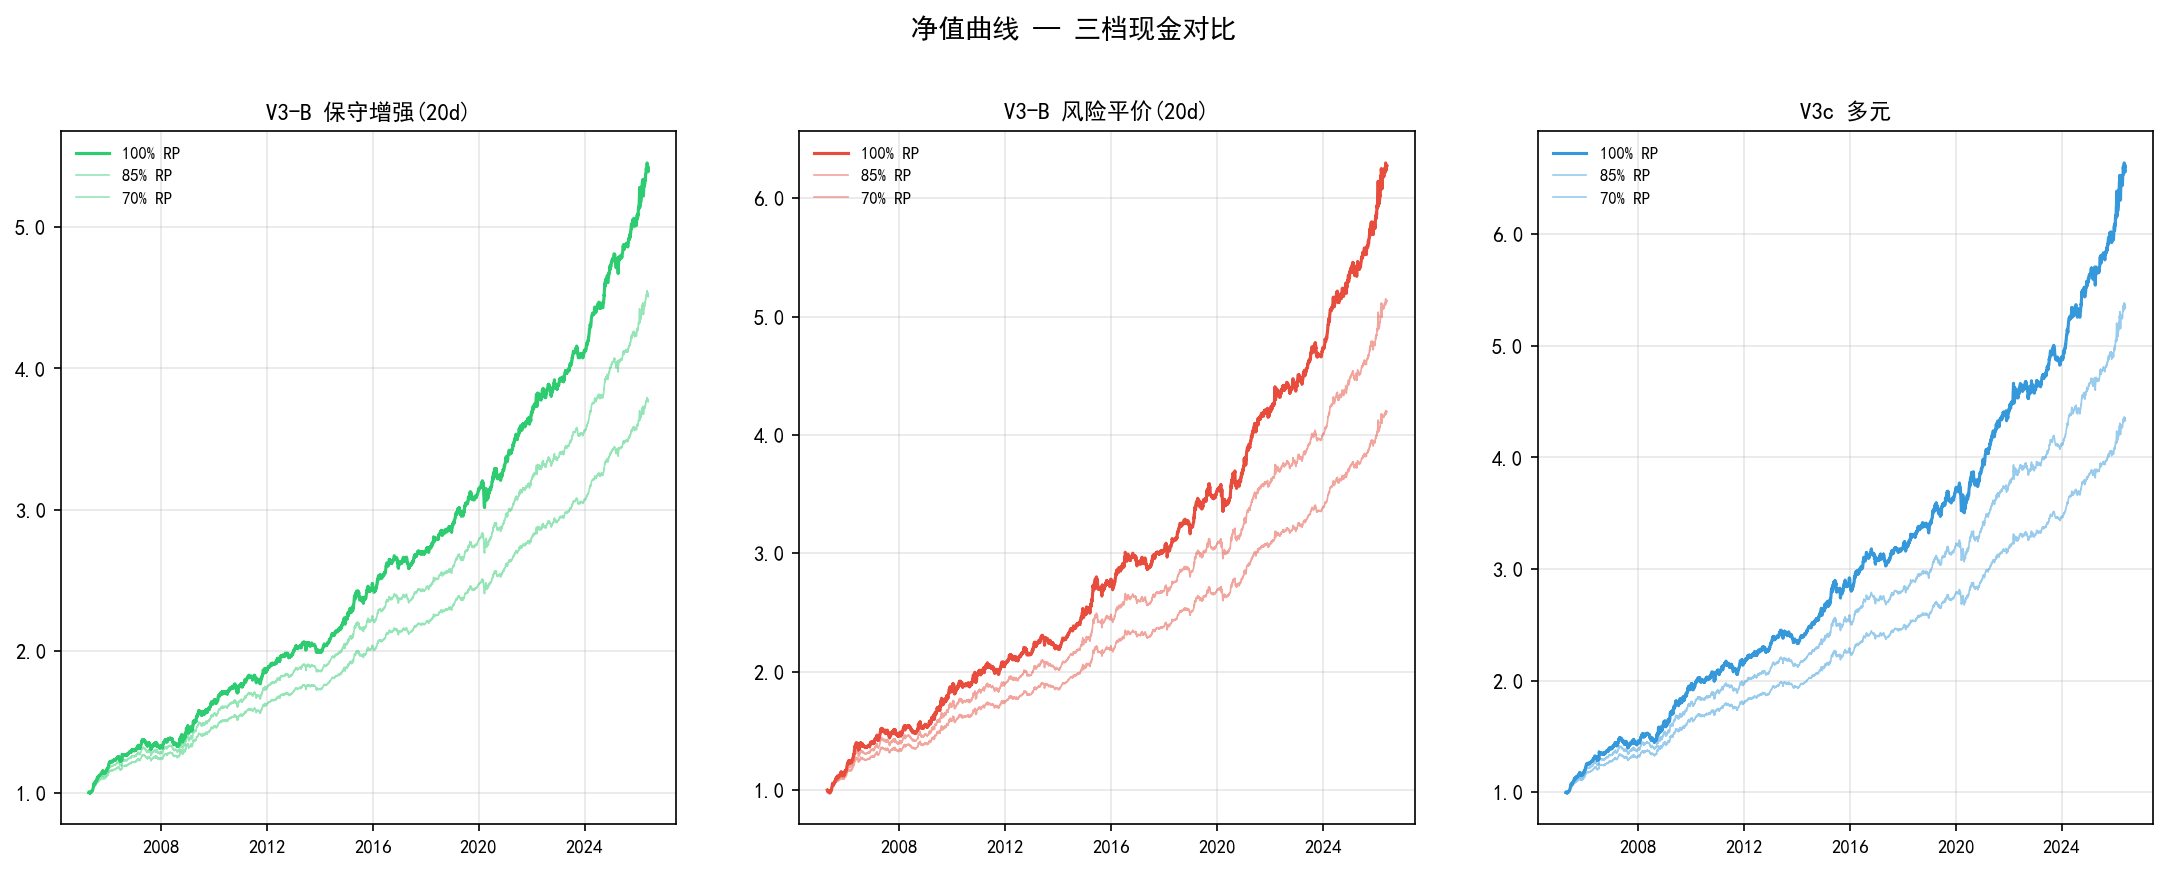
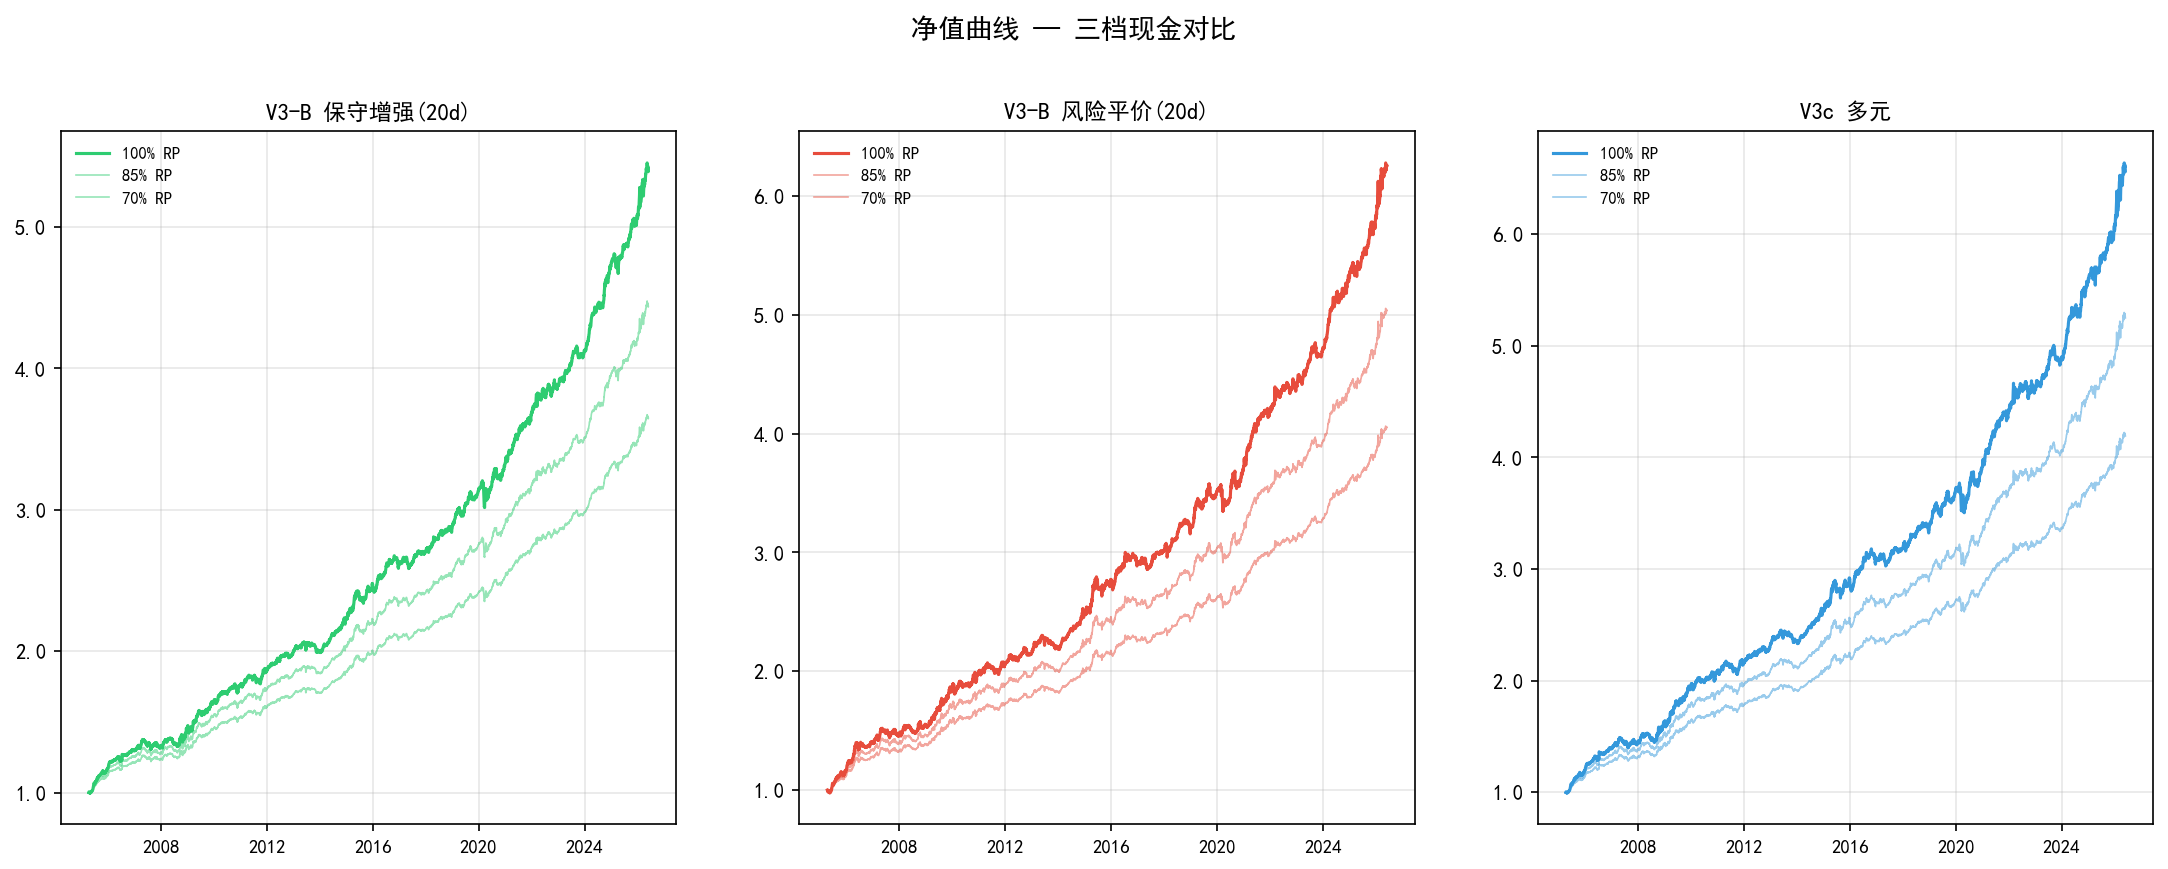
fix: 无风险利率统一为10年期国债收益率 1.7%（2026.07 实际值）

diff --git a/docs/index.html b/docs/index.html
@@ -1608,9 +1608,11 @@ function downloadHTML() {
 
 
 
+
+
 <!-- ALLWEATHER_SYNC_START --><script>
 (function(){
-const D = {"V3-B 保守增强(20d)": {"100% RP": {"cum_return": 4.397204, "cagr": 0.08118, "vol": 0.039523, "mdd": -0.059215, "sharpe": 1.497334, "calmar": 1.370932, "final_nv": 5.3972}, "85% RP": {"cum_return": 3.51064, "cagr": 0.072235, "vol": 0.033595, "mdd": -0.050256, "sharpe": 1.495309, "calmar": 1.43734, "final_nv": 4.5106}, "70% RP": {"cum_return": 2.766826, "cagr": 0.063326, "vol": 0.027666, "mdd": -0.041227, "sharpe": 1.49373, "calmar": 1.536023, "final_nv": 3.7668}, "动态": {"cum_return": 3.797412, "cagr": 0.075299, "vol": 0.035519, "mdd": -0.043639, "sharpe": 1.500597, "calmar": 1.725512, "final_nv": 4.7974}}, "V3-B 风险平价(20d)": {"100% RP": {"cum_return": 5.271513, "cagr": 0.088721, "vol": 0.051765, "mdd": -0.064569, "sharpe": 1.28893, "calmar": 1.374064, "final_nv": 6.2715}, "85% RP": {"cum_return": 4.132546, "cagr": 0.078666, "vol": 0.044, "mdd": -0.053587, "sharpe": 1.287858, "calmar": 1.468019, "final_nv": 5.1325}, "70% RP": {"cum_return": 3.194925, "cagr": 0.068639, "vol": 0.036235, "mdd": -0.043656, "sharpe": 1.287101, "calmar": 1.572269, "final_nv": 4.1949}, "动态": {"cum_return": 4.305664, "cagr": 0.080324, "vol": 0.045944, "mdd": -0.050839, "sharpe": 1.269467, "calmar": 1.579965, "final_nv": 5.3057}}, "V3c 多元": {"100% RP": {"cum_return": 5.564913, "cagr": 0.091028, "vol": 0.05017, "mdd": -0.070643, "sharpe": 1.375903, "calmar": 1.288575, "final_nv": 6.5649}, "85% RP": {"cum_return": 4.334717, "cagr": 0.080597, "vol": 0.042644, "mdd": -0.059716, "sharpe": 1.374097, "calmar": 1.349666, "final_nv": 5.3347}, "70% RP": {"cum_return": 3.329724, "cagr": 0.070205, "vol": 0.035119, "mdd": -0.048698, "sharpe": 1.372622, "calmar": 1.441621, "final_nv": 4.3297}}, "_yearly": {"V3-B 保守增强(20d)": {"2005": 0.17198, "2006": 0.11129, "2007": 0.021756, "2008": 0.094139, "2009": 0.130856, "2010": 0.070649, "2011": 0.057314, "2012": 0.072082, "2013": -0.000239, "2014": 0.117815, "2015": 0.105037, "2016": 0.063493, "2017": 0.029769, "2018": 0.061558, "2019": 0.09356, "2020": 0.061233, "2021": 0.108552, "2022": 0.052604, "2023": 0.062331, "2024": 0.145453, "2025": 0.070363, "2026": 0.06662}, "V3-B 风险平价(20d)": {"2005": 0.174176, "2006": 0.20124, "2007": 0.043678, "2008": 0.049527, "2009": 0.210274, "2010": 0.072145, "2011": 0.029734, "2012": 0.046866, "2013": 0.021284, "2014": 0.133561, "2015": 0.10686, "2016": 0.055227, "2017": 0.034018, "2018": 0.061837, "2019": 0.097949, "2020": 0.06082, "2021": 0.126659, "2022": 0.048929, "2023": 0.071192, "2024": 0.127467, "2025": 0.09204, "2026": 0.076733}, "V3c 多元": {"2005": 0.197352, "2006": 0.168026, "2007": 0.037821, "2008": 0.115286, "2009": 0.20631, "2010": 0.06984, "2011": 0.034292, "2012": 0.075425, "2013": 0.014391, "2014": 0.120544, "2015": 0.100197, "2016": 0.063526, "2017": 0.029932, "2018": 0.056357, "2019": 0.100803, "2020": 0.058533, "2021": 0.128672, "2022": 0.045915, "2023": 0.058139, "2024": 0.137745, "2025": 0.083423, "2026": 0.0882}}, "_events": {"V3-B 保守增强(20d)": {"2008 GFC": 0.074448, "2015 股灾": -0.03284, "2016 熔断": -0.004556, "2017 债熊": 0.028782, "2018 大熊市": 0.046516, "2019 春季反弹": 0.035604, "2020 疫情": -0.057406, "2020-Q4 内需复苏": 0.011326, "2021-2 白马回撤": 0.007111, "2022 股债双杀": 0.050369, "2022 理财赎回": 0.004762, "2024 雪球危机": 0.026421, "2024-08 长债": 0.019785, "2024-924 反弹": 0.025457, "2025-Q1 长债": 0.006214, "2025-9 关税": 0.028615}, "V3-B 风险平价(20d)": {"2008 GFC": 0.040527, "2015 股灾": -0.047662, "2016 熔断": -0.008286, "2017 债熊": 0.030848, "2018 大熊市": 0.063048, "2019 春季反弹": 0.069999, "2020 疫情": -0.061508, "2020-Q4 内需复苏": 0.011148, "2021-2 白马回撤": 0.016257, "2022 股债双杀": 0.05402, "2022 理财赎回": 0.003213, "2024 雪球危机": 0.028962, "2024-08 长债": 0.001315, "2024-924 反弹": -0.007064, "2025-Q1 长债": 0.009721, "2025-9 关税": 0.034165}, "V3c 多元": {"2008 GFC": 0.117369, "2015 股灾": -0.04878, "2016 熔断": -0.011217, "2017 债熊": 0.028125, "2018 大熊市": 0.049134, "2019 春季反弹": 0.052859, "2020 疫情": -0.063481, "2020-Q4 内需复苏": 0.012088, "2021-2 白马回撤": 0.011597, "2022 股债双杀": 0.046957, "2022 理财赎回": 0.010358, "2024 雪球危机": 0.029715, "2024-08 长债": 0.01508, "2024-924 反弹": 0.026811, "2025-Q1 长债": 0.018703, "2025-9 关税": 0.027364}}, "_bootstrap": {"V3-B 保守增强(20d)": {"p5": 0.113729, "p25": 0.293169, "median": 0.417602, "p75": 0.542391, "p95": 0.745455, "annual_median": 0.072287, "loss_prob": 0.007}, "V3-B 风险平价(20d)": {"p5": 0.078188, "p25": 0.303038, "median": 0.484553, "p75": 0.655294, "p95": 0.950527, "annual_median": 0.082229, "loss_prob": 0.025}, "V3c 多元": {"p5": 0.06015, "p25": 0.278667, "median": 0.438467, "p75": 0.603644, "p95": 0.876231, "annual_median": 0.075425, "loss_prob": 0.025}}, "_regime": {"V3-B 保守增强(20d)": {"股牛+债牛": {"avg": 0.029664, "n": 34}, "股牛+债熊": {"avg": 0.009865, "n": 14}, "股熊+债牛": {"avg": 0.019936, "n": 29}, "股熊+债熊": {"avg": -0.000962, "n": 8}}, "V3-B 风险平价(20d)": {"股牛+债牛": {"avg": 0.029334, "n": 34}, "股牛+债熊": {"avg": 0.019895, "n": 14}, "股熊+债牛": {"avg": 0.018615, "n": 29}, "股熊+债熊": {"avg": 0.008287, "n": 8}}, "V3c 多元": {"股牛+债牛": {"avg": 0.032543, "n": 34}, "股牛+债熊": {"avg": 0.014107, "n": 14}, "股熊+债牛": {"avg": 0.02007, "n": 29}, "股熊+债熊": {"avg": 0.004963, "n": 8}}}};
+const D = {"V3-B 保守增强(20d)": {"100% RP": {"cum_return": 4.397204, "cagr": 0.08118, "vol": 0.039523, "mdd": -0.059215, "sharpe": 1.623841, "calmar": 1.370932, "final_nv": 5.3972}, "85% RP": {"cum_return": 3.438178, "cagr": 0.071431, "vol": 0.033595, "mdd": -0.050315, "sharpe": 1.620219, "calmar": 1.419668, "final_nv": 4.4382}, "70% RP": {"cum_return": 2.646769, "cagr": 0.061733, "vol": 0.027666, "mdd": -0.041347, "sharpe": 1.616861, "calmar": 1.493025, "final_nv": 3.6468}, "动态": {"cum_return": 3.751811, "cagr": 0.074824, "vol": 0.035519, "mdd": -0.043639, "sharpe": 1.627979, "calmar": 1.714618, "final_nv": 4.7518}}, "V3-B 风险平价(20d)": {"100% RP": {"cum_return": 5.253022, "cagr": 0.088573, "vol": 0.051765, "mdd": -0.064569, "sharpe": 1.382648, "calmar": 1.371759, "final_nv": 6.253}, "85% RP": {"cum_return": 4.037436, "cagr": 0.077732, "vol": 0.044, "mdd": -0.053927, "sharpe": 1.380276, "calmar": 1.441424, "final_nv": 5.0374}, "70% RP": {"cum_return": 3.05284, "cagr": 0.066935, "vol": 0.036235, "mdd": -0.043776, "sharpe": 1.378079, "calmar": 1.529053, "final_nv": 4.0528}, "动态": {"cum_return": 4.24065, "cagr": 0.079707, "vol": 0.045943, "mdd": -0.050904, "sharpe": 1.364895, "calmar": 1.565836, "final_nv": 5.2406}}, "V3c 多元": {"100% RP": {"cum_return": 5.564913, "cagr": 0.091028, "vol": 0.05017, "mdd": -0.070643, "sharpe": 1.475565, "calmar": 1.288575, "final_nv": 6.5649}, "85% RP": {"cum_return": 4.24902, "cagr": 0.079787, "vol": 0.042644, "mdd": -0.059842, "sharpe": 1.472354, "calmar": 1.333289, "final_nv": 5.249}, "70% RP": {"cum_return": 3.19173, "cagr": 0.068601, "vol": 0.035119, "mdd": -0.048953, "sharpe": 1.469332, "calmar": 1.40135, "final_nv": 4.1917}}, "_yearly": {"V3-B 保守增强(20d)": {"2005": 0.17198, "2006": 0.11129, "2007": 0.021756, "2008": 0.094139, "2009": 0.130856, "2010": 0.070649, "2011": 0.057314, "2012": 0.072082, "2013": -0.000239, "2014": 0.117815, "2015": 0.105037, "2016": 0.063493, "2017": 0.029769, "2018": 0.061558, "2019": 0.09356, "2020": 0.061233, "2021": 0.108552, "2022": 0.052604, "2023": 0.062331, "2024": 0.145453, "2025": 0.070363, "2026": 0.06662}, "V3-B 风险平价(20d)": {"2005": 0.174176, "2006": 0.200634, "2007": 0.043665, "2008": 0.048915, "2009": 0.209153, "2010": 0.072145, "2011": 0.029565, "2012": 0.046809, "2013": 0.021284, "2014": 0.133561, "2015": 0.106496, "2016": 0.055192, "2017": 0.034018, "2018": 0.061837, "2019": 0.097949, "2020": 0.060466, "2021": 0.126659, "2022": 0.048929, "2023": 0.071192, "2024": 0.127467, "2025": 0.09204, "2026": 0.076722}, "V3c 多元": {"2005": 0.197352, "2006": 0.168026, "2007": 0.037821, "2008": 0.115286, "2009": 0.20631, "2010": 0.06984, "2011": 0.034292, "2012": 0.075425, "2013": 0.014391, "2014": 0.120544, "2015": 0.100197, "2016": 0.063526, "2017": 0.029932, "2018": 0.056357, "2019": 0.100803, "2020": 0.058533, "2021": 0.128672, "2022": 0.045915, "2023": 0.058139, "2024": 0.137745, "2025": 0.083423, "2026": 0.0882}}, "_events": {"V3-B 保守增强(20d)": {"2008 GFC": 0.074448, "2015 股灾": -0.03284, "2016 熔断": -0.004556, "2017 债熊": 0.028782, "2018 大熊市": 0.046516, "2019 春季反弹": 0.035604, "2020 疫情": -0.057406, "2020-Q4 内需复苏": 0.011326, "2021-2 白马回撤": 0.007111, "2022 股债双杀": 0.050369, "2022 理财赎回": 0.004762, "2024 雪球危机": 0.026421, "2024-08 长债": 0.019785, "2024-924 反弹": 0.025457, "2025-Q1 长债": 0.006214, "2025-9 关税": 0.028615}, "V3-B 风险平价(20d)": {"2008 GFC": 0.039491, "2015 股灾": -0.047662, "2016 熔断": -0.008286, "2017 债熊": 0.030848, "2018 大熊市": 0.063048, "2019 春季反弹": 0.069999, "2020 疫情": -0.061508, "2020-Q4 内需复苏": 0.011148, "2021-2 白马回撤": 0.016257, "2022 股债双杀": 0.05402, "2022 理财赎回": 0.003213, "2024 雪球危机": 0.028962, "2024-08 长债": 0.001315, "2024-924 反弹": -0.007064, "2025-Q1 长债": 0.009721, "2025-9 关税": 0.034165}, "V3c 多元": {"2008 GFC": 0.117369, "2015 股灾": -0.04878, "2016 熔断": -0.011217, "2017 债熊": 0.028125, "2018 大熊市": 0.049134, "2019 春季反弹": 0.052859, "2020 疫情": -0.063481, "2020-Q4 内需复苏": 0.012088, "2021-2 白马回撤": 0.011597, "2022 股债双杀": 0.046957, "2022 理财赎回": 0.010358, "2024 雪球危机": 0.029715, "2024-08 长债": 0.01508, "2024-924 反弹": 0.026811, "2025-Q1 长债": 0.018703, "2025-9 关税": 0.027364}}, "_bootstrap": {"V3-B 保守增强(20d)": {"p5": 0.113729, "p25": 0.293169, "median": 0.417602, "p75": 0.542391, "p95": 0.745455, "annual_median": 0.072287, "loss_prob": 0.007}, "V3-B 风险平价(20d)": {"p5": 0.078188, "p25": 0.303038, "median": 0.484553, "p75": 0.655294, "p95": 0.950527, "annual_median": 0.082229, "loss_prob": 0.025}, "V3c 多元": {"p5": 0.06015, "p25": 0.278667, "median": 0.438467, "p75": 0.603644, "p95": 0.876231, "annual_median": 0.075425, "loss_prob": 0.025}}, "_regime": {"V3-B 保守增强(20d)": {"股牛+债牛": {"avg": 0.029664, "n": 34}, "股牛+债熊": {"avg": 0.009865, "n": 14}, "股熊+债牛": {"avg": 0.019936, "n": 29}, "股熊+债熊": {"avg": -0.000962, "n": 8}}, "V3-B 风险平价(20d)": {"股牛+债牛": {"avg": 0.029306, "n": 34}, "股牛+债熊": {"avg": 0.019815, "n": 14}, "股熊+债牛": {"avg": 0.018584, "n": 29}, "股熊+债熊": {"avg": 0.008274, "n": 8}}, "V3c 多元": {"股牛+债牛": {"avg": 0.032543, "n": 34}, "股牛+债熊": {"avg": 0.014107, "n": 14}, "股熊+债牛": {"avg": 0.02007, "n": 29}, "股熊+债熊": {"avg": 0.004963, "n": 8}}}};
 
 function pct(v, d) { return (v*100).toFixed(d||2)+'%'; }
 function ps(v, d) { var s=(v*100).toFixed(d||2)+'%'; return (v>=0?'+':'')+s; }
@@ -2068,6 +2070,8 @@ if (T) {
 console.log('data.json sync: '+Object.keys(D).length+' strategies loaded');
 })();
 </script><!-- ALLWEATHER_SYNC_END -->
+
+
 
 
 

diff --git a/allweather/config.py b/allweather/config.py
@@ -25,8 +25,8 @@ SAFETY_DEDUCT = {
 
 # === 调仓规则 ===
 REBAL_FREQ = "ME"            # 月度再平衡（V3c）
-RISK_FREE_RATE = 0.022 / 252 # 货币基金年化 2.2%（日度）
-RISK_FREE_ANNUAL = 0.022         # 无风险利率年化，用于 Sharpe 修正
+RISK_FREE_RATE = 0.017 / 252   # 10年期国债收益率 ~1.7%（日度，2026.07）
+RISK_FREE_ANNUAL = 0.017       # 无风险利率年化，用于 Sharpe 修正
 
 # === 现金降杠杆档位 ===
 CASH_TIERS = [

diff --git a/README-zh.md b/README-zh.md
@@ -23,9 +23,9 @@
 
 | 方案 | 风格 | CAGR | 波动率 | 最大回撤 | Sharpe | 一句话 |
 |------|:----:|:----:|:------:|:--------:|:-----:|--------|
-| **V3-B 保守增强(20d)** | 保守增强 | **8.12%** | 3.95% | **-5.92%** | **1.50** | 逆波动率 20d + nonferr(75d) + HS300 AND 抄底 |
-| **V3-B 风险平价(20d)** | 学院派 | 8.87% | 5.18% | -6.46% | 1.29 | 4 桶等权 HRP + nonferr/gold/sp500/hs300 趋势 + 抄底 + 波动率控制 |
-| **V3c 多元** | 多元全天候 | **9.10%** | 5.02% | -7.06% | 1.38 | 6 资产逆波动率 60d + nonferr/gold/sp500 趋势(75d) + HS300 AND 抄底 |
+| **V3-B 保守增强(20d)** | 保守增强 | **8.12%** | 3.95% | **-5.92%** | **1.62** | 逆波动率 20d + nonferr(75d) + HS300 AND 抄底 |
+| **V3-B 风险平价(20d)** | 学院派 | 8.86% | 5.18% | -6.46% | 1.38 | 4 桶等权 HRP + nonferr/gold/sp500/hs300 趋势 + 抄底 + 波动率控制 |
+| **V3c 多元** | 多元全天候 | **9.10%** | 5.02% | -7.06% | 1.48 | 6 资产逆波动率 60d + nonferr/gold/sp500 趋势(75d) + HS300 AND 抄底 |
 
 > V3-B RP 四重趋势过滤：nonferr(75d) + gold(75d) + sp500(75d) + hs300(30d)；V3c 三重趋势过滤：nonferr(75d) + gold(75d) + sp500(75d)。不含 bond_10y（CAGR +1.43pp, Sharpe -0.02）。V3c 多元 6 资产逆波动率 60d，同样不含 bond_10y。本表为**不含原油**版本（6 资产），含原油对比见下方。
 
@@ -72,9 +72,9 @@
 
 | 策略 | CAGR | 波动率 | 最大回撤 | Sharpe | Calmar |
 |------|:----:|:------:|:--------:|:-----:|:------:|
-| **V3-B 保守增强** | **8.12%** | 3.95% | -5.92% | **1.50** | 1.37 |
-| **V3-B 风险平价** | **8.87%** | 5.18% | -6.46% | **1.29** | 1.37 |
-| **V3c 多元** | **9.10%** | 5.02% | -7.06% | **1.38** | 1.29 |
+| **V3-B 保守增强** | **8.12%** | 3.95% | -5.92% | **1.62** | 1.37 |
+| **V3-B 风险平价** | **8.86%** | 5.18% | -6.46% | **1.38** | 1.37 |
+| **V3c 多元** | **9.10%** | 5.02% | -7.06% | **1.48** | 1.29 |
 
 > 8 资产含原油（南方原油 LOF 501018），相比 7 资产版 MDD 改善 1-2pp（CAGR -0.2~-0.3pp），原油在通胀桶内与 gold/nonferr 低相关分散。场内 LOF 可直接买卖。
 
